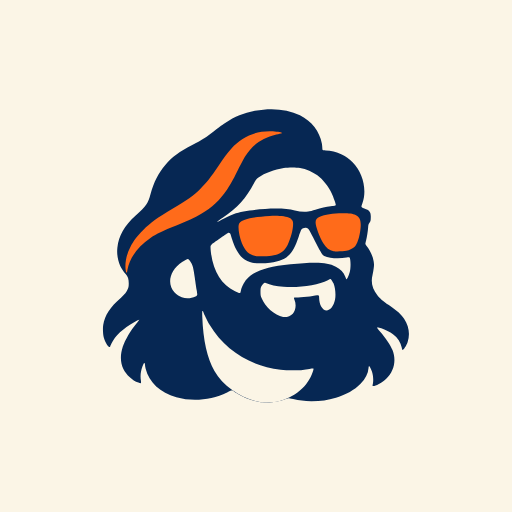
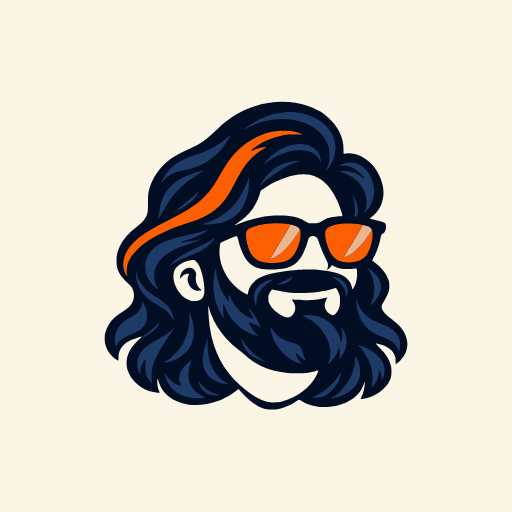
El Duderino, in more detail; one of him at a time
The mascot's more detailed cut (five flat colours: hair highlights and a
glint on the lenses) is traced as before and replaces the flat one. The
sidebar says "El Duderino".

The mark showed both of its versions at once: `.dudeMark img` outranked
the rule hiding the one the theme does not want. The two rules are now
of one specificity, the hiding one last.

Changed region(s): [[0.1875, 0.1875, 0.8125, 0.8125]]

diff --git a/apps/web/src/App.tsx b/apps/web/src/App.tsx
@@ -351,7 +351,7 @@ export function App({ client, onSignOut, onKeyRefused }: AppProps) {
         onSelect={(ref) => go(inTree(ref))}
         onShowAllAttention={() => go({ view: "inbox" })}
         menuItems={menuItems}
-        title={<span className="brand"><DudeMark size={24} />dude</span>}
+        title={<span className="brand"><DudeMark size={24} />El Duderino</span>}
         footer={
           <div className="sidebarFooter">
             <Button size="sm" variant="ghost" leadingIcon="plus" onClick={() => setOpen({ kind: "newProject" })} data-testid="new-project">

diff --git a/apps/web/src/app.css b/apps/web/src/app.css
@@ -199,15 +199,14 @@ body {
   display: inline-block;
   flex-shrink: 0;
 }
-.dudeMark img {
+/* One of the two, by theme: the rule hiding the other must outrank this one. */
+.dudeMark .dudeMarkLight,
+[data-theme="dark"] .dudeMark .dudeMarkDark {
   display: block;
 }
-.dudeMarkDark,
-[data-theme="dark"] .dudeMarkLight {
+.dudeMark .dudeMarkDark,
+[data-theme="dark"] .dudeMark .dudeMarkLight {
   display: none;
-}
-[data-theme="dark"] .dudeMarkDark {
-  display: block;
 }
 .keyPromptMark {
   display: block;

diff --git a/apps/web/index.html b/apps/web/index.html
@@ -10,7 +10,7 @@
     <link rel="icon" type="image/png" href="/favicon-32.png" sizes="32x32" />
     <link rel="apple-touch-icon" href="/apple-touch-180.png" />
     <link rel="manifest" href="/manifest.webmanifest" />
-    <meta name="theme-color" content="#062753" />
+    <meta name="theme-color" content="#010d22" />
   </head>
   <body>
     <div id="root"></div>

diff --git a/docs/design/mascot/trace.py b/docs/design/mascot/trace.py
@@ -1,24 +1,24 @@
-# Trace the flat mark into an SVG with potrace: one layer per colour, each
-# from a clean two-tone mask, painted navy (the whole silhouette), then
-# cream, then orange.
-import numpy as np, potrace
+# Trace a flat mark into an SVG with potrace: one layer per palette colour,
+# each from a clean mask of the pixels nearest that colour, painted bottom up
+# (the first colour fills the whole silhouette).
+import sys, numpy as np, potrace
 from PIL import Image, ImageFilter
-SRC = "/home/marcio/git/dude/docs/design/icon/mascot3/source.png"
+SRC, OUT = sys.argv[1], sys.argv[2]
+# Bottom up: ink (whole silhouette), hair highlights, skin, orange, lens glint.
+PALETTE = [("#010d22", (1, 13, 34)), ("#1e3a66", (30, 58, 102)), ("#fbf5e6", (251, 245, 230)),
+           ("#fb5f02", (251, 95, 2)), ("#ebb68e", (235, 182, 142))]
 im = Image.open(SRC).convert("RGBA")
 x0, y0, x1, y1 = im.getchannel("A").point(lambda a: 255 if a > 200 else 0).filter(ImageFilter.MinFilter(5)).getbbox()
 pad = 8
-im = im.crop((x0 - pad, y0 - pad, x1 + pad, y1 + pad))
-W, H = im.size
+im = im.crop((x0 - pad, y0 - pad, x1 + pad, y1 + pad)); W, H = im.size
 a = np.asarray(im).astype(int)
-pal = {"navy": (6, 39, 83), "cream": (251, 245, 230), "orange": (255, 107, 26)}
-names = list(pal)
-d = np.stack([((a[..., :3] - np.array(c)) ** 2).sum(-1) for c in pal.values()], -1)
+d = np.stack([((a[..., :3] - np.array(c)) ** 2).sum(-1) for _, c in PALETTE], -1)
 label = d.argmin(-1); label[a[..., 3] < 128] = -1
 def layer(keep):
-    m = np.isin(label, [names.index(k) for k in keep])
-    m = np.asarray(Image.fromarray((m * 255).astype("uint8")).filter(ImageFilter.MedianFilter(5))) > 127
+    m = np.isin(label, keep)
+    m = np.asarray(Image.fromarray((m * 255).astype("uint8")).filter(ImageFilter.MedianFilter(3))) > 127
     # This potrace traces False as the shape.
-    plist = potrace.Bitmap(~m).trace(turdsize=20, alphamax=1.0, opticurve=True, opttolerance=0.2)
+    plist = potrace.Bitmap(~m).trace(turdsize=12, alphamax=1.0, opticurve=True, opttolerance=0.2)
     parts = []
     for curve in plist:
         s = curve.start_point; seg = [f"M{s.x:.1f},{s.y:.1f}"]
@@ -27,11 +27,9 @@ def layer(keep):
             else: seg.append(f"C{c.c1.x:.1f},{c.c1.y:.1f} {c.c2.x:.1f},{c.c2.y:.1f} {c.end_point.x:.1f},{c.end_point.y:.1f}")
         parts.append("".join(seg) + "Z")
     return "".join(parts)
-layers = {"navy": layer(["navy", "cream", "orange"]), "cream": layer(["cream"]), "orange": layer(["orange"])}
-fill = {"navy": "#062753", "cream": "#fbf5e6", "orange": "#ff6b1a"}
-body = "".join(f'<path fill="{fill[k]}" fill-rule="evenodd" d="{v}"/>' for k, v in layers.items())
-# Square viewBox, centred: it drops into any icon slot.
+# The base is every colour; each layer above is its own colour only.
+layers = [(PALETTE[0][0], layer(list(range(len(PALETTE)))))] + [(hexc, layer([i])) for i, (hexc, _) in enumerate(PALETTE) if i > 0]
+body = "".join(f'<path fill="{f}" fill-rule="evenodd" d="{p}"/>' for f, p in layers if p)
 S = max(W, H); ox, oy = (S - W) / 2, (S - H) / 2
-svg = f'<svg xmlns="http://www.w3.org/2000/svg" viewBox="{-ox:.0f} {-oy:.0f} {S} {S}">{body}</svg>\n'
-open("dude.svg", "w").write(svg)
-print(W, H, S, len(svg), {k: v.count("M") for k, v in layers.items()})
+open(OUT, "w").write(f'<svg xmlns="http://www.w3.org/2000/svg" viewBox="{-ox:.0f} {-oy:.0f} {S} {S}">{body}</svg>\n')
+print(W, H, S, {f: p.count("M") for f, p in layers})

diff --git a/docs/design/mascot/README.md b/docs/design/mascot/README.md
@@ -1,9 +1,10 @@
 # dude's mascot
 
-`dude.png` is the source: 1254×1254, transparent, flat navy `#062753`,
-cream `#fbf5e6` and orange `#ff6b1a`, generated with ChatGPT (26 Sep 2026).
+`dude.png` is the source: 1254×1254, transparent, five flat colours — ink
+`#010d22`, navy `#1e3a66`, cream `#fbf5e6`, orange `#fb5f02` and a lens
+glint `#ebb68e` — generated with ChatGPT (26 Sep 2026).
 
-`dude.svg` is it traced (`trace.py`: potrace, one layer per colour), and the
+`dude.svg` is it traced (`python trace.py dude.png out.svg`: potrace, one layer per colour), and the
 mark everything is made from. `dude-outlined.svg` adds a cream outline, for
 dark backgrounds, where his navy hair would vanish.
 
